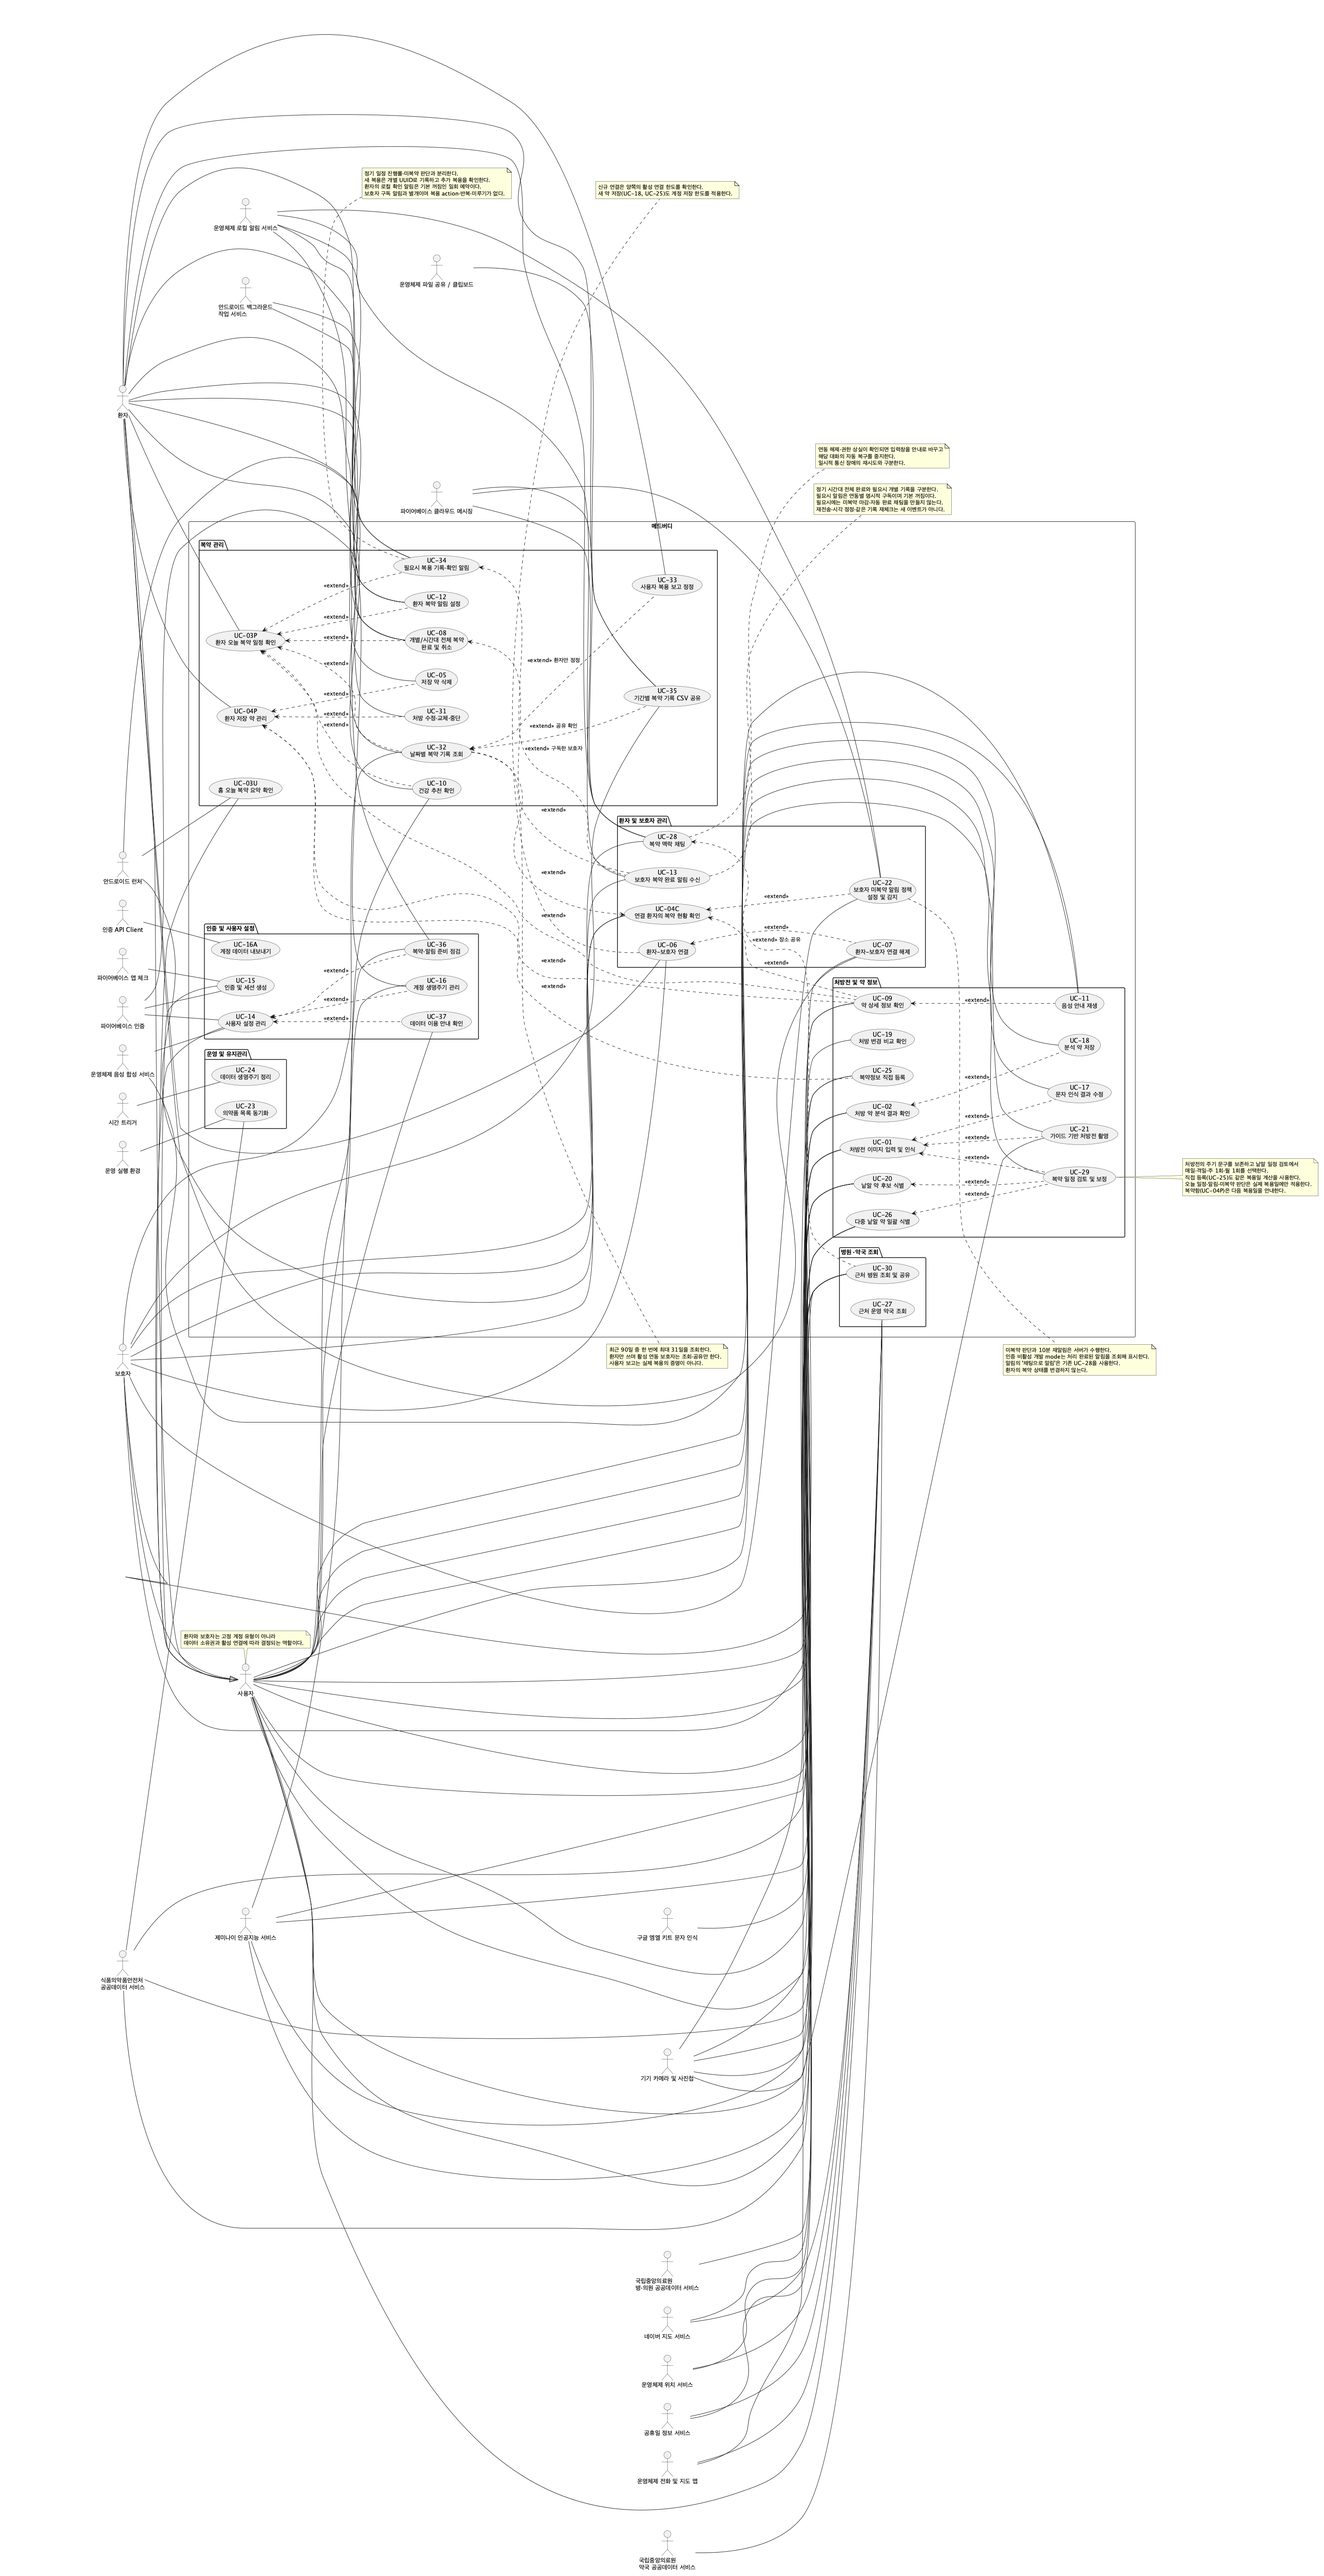
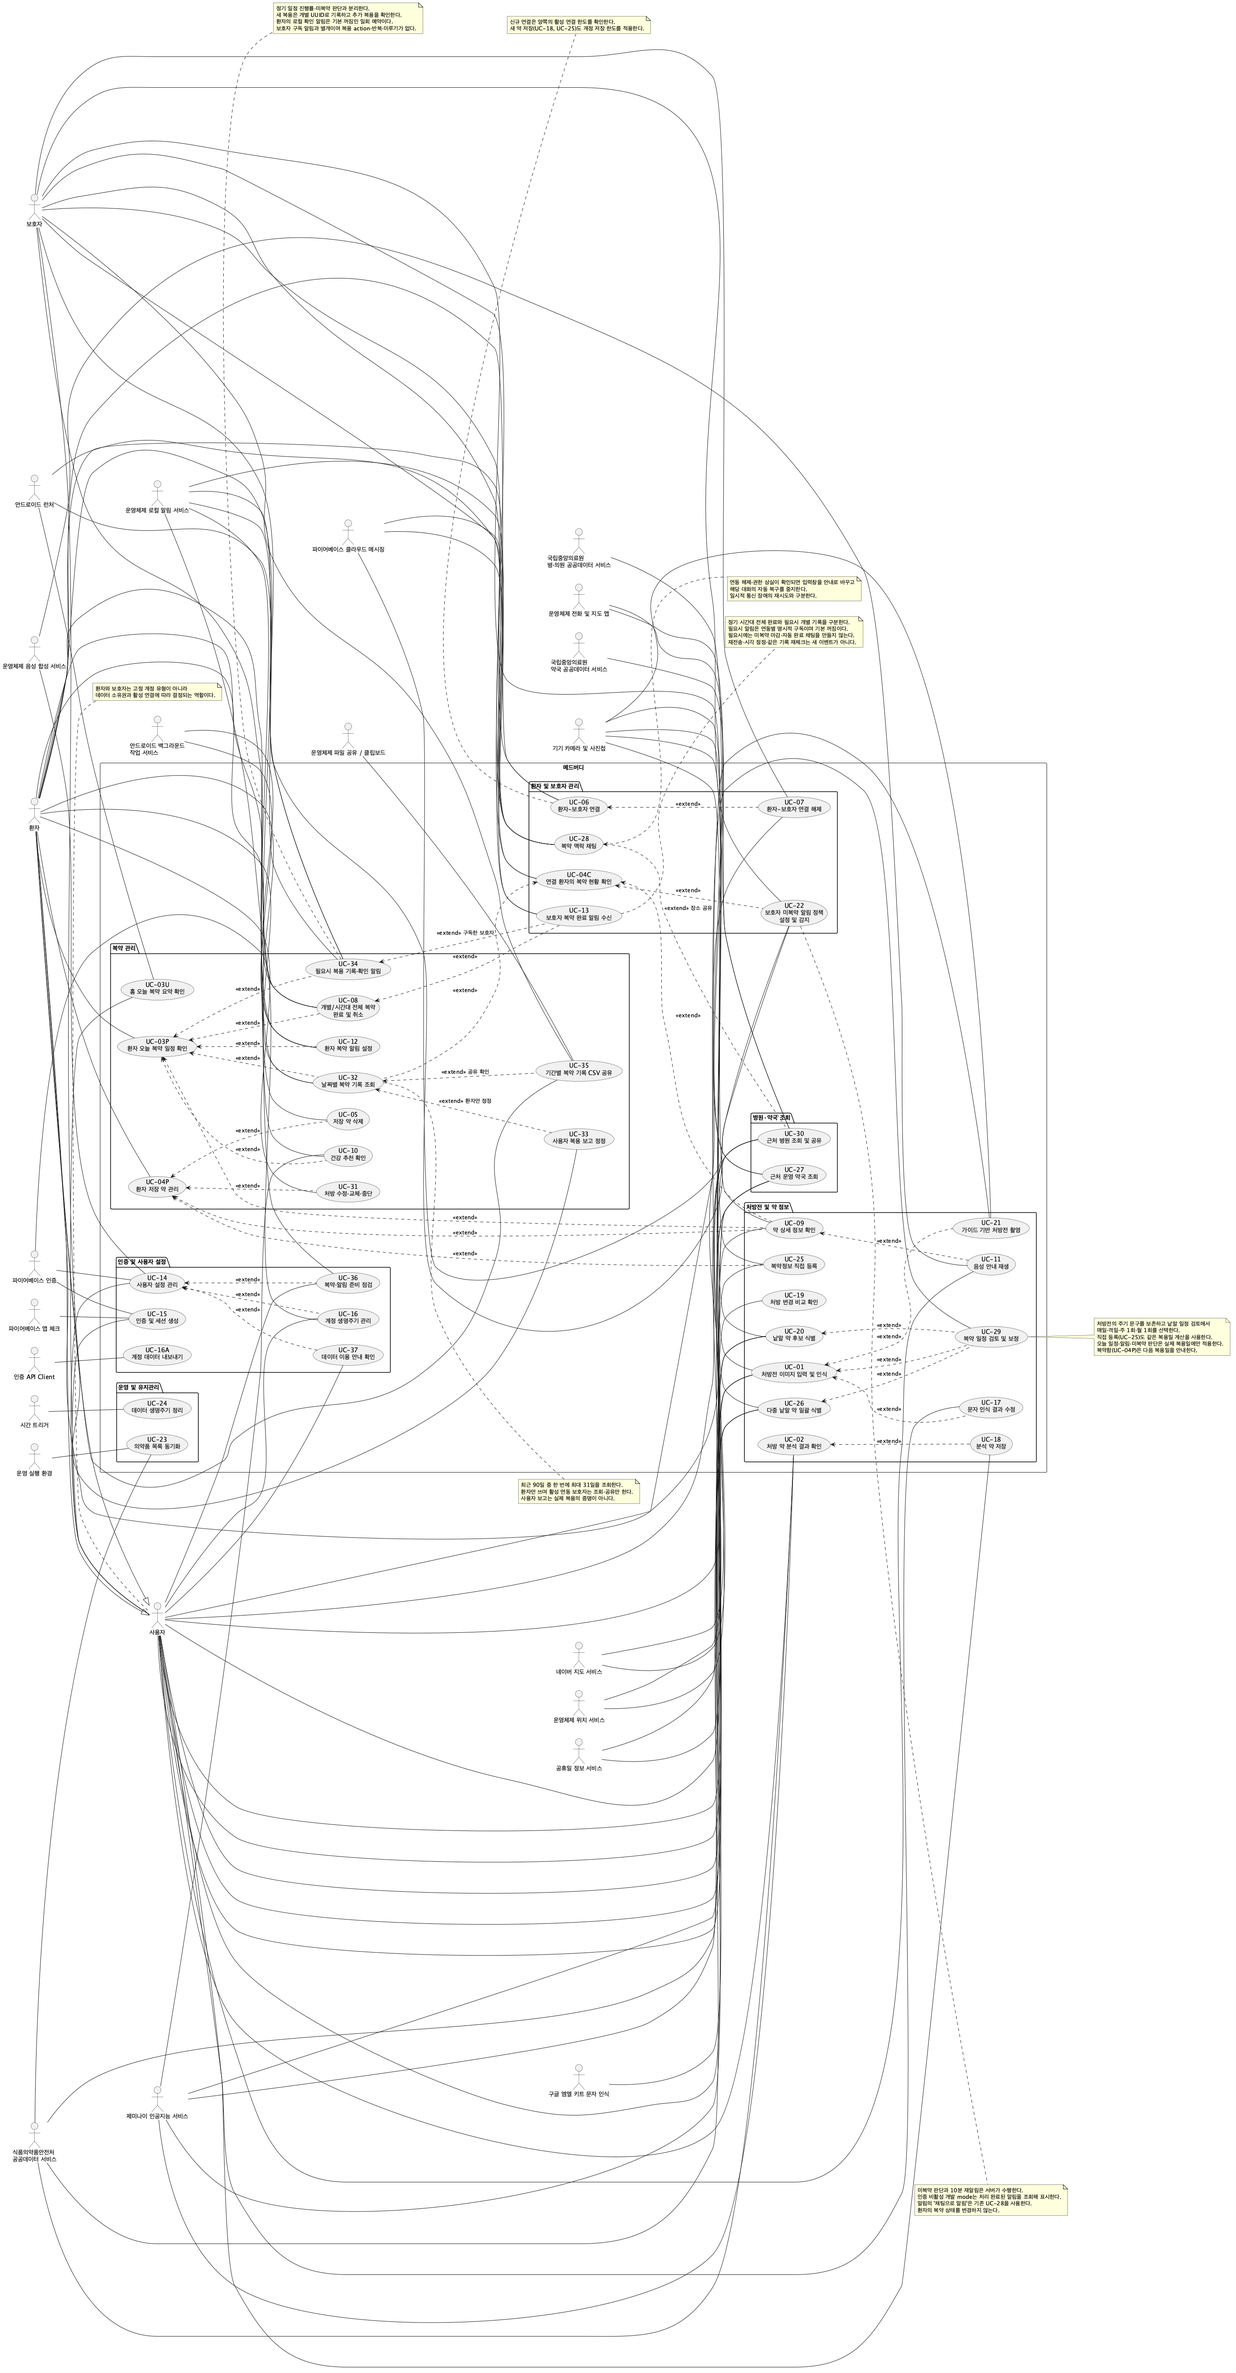
docs: bring use cases and the user guide text up to the current app
Use cases: the caregiver is linked to UC-34, whose description gains the
undo step; the descriptions use the current labels (연동된 환자 일정 보기,
복용 완료 취소 with its confirmation) and state the 30-minute threshold of
the home recording notice, the delete warning about dose records and the
caregiver deadline wait. The use case and overall sequence PNGs are
rendered again.

User guide text: 처방 변경 badges, the delete warning, 연동된 환자, the home
prompt, the schedule screen's whole-slot undo confirmation, the 30-minute
threshold and the as-needed undo. The PDF and screenshots still need a
rebuild; SOURCE_NOTES lists what changed.

The TODO marks the as-needed scheduling and late weekly dose limits as
resolved by v0.2.3, and the backend's OpenAPI version reads 0.2.4-beta.

diff --git a/backend/main.py b/backend/main.py
@@ -313,7 +313,7 @@ def create_app() -> FastAPI:
     prepare_database_schema(engine, auto_create=settings.AUTO_CREATE_SCHEMA)
     app = FastAPI(
         title="MedBuddy API",
-        version="0.1.0-beta",
+        version="0.2.4-beta",
         lifespan=application_lifespan,
         docs_url=None if settings.APP_ENV == "production" else "/docs",
         redoc_url=None if settings.APP_ENV == "production" else "/redoc",

diff --git a/docs/TODO.md b/docs/TODO.md
@@ -14,8 +14,10 @@ line below. Changes are listed in the [v0.2.4 notes](releases/v0.2.4-beta.md).
       leaned to "not needed").
 - [ ] A calendar for checking past days' doses.
 - [ ] Dose record export.
-- [ ] The launcher icon is enlarged and cropped by the Samsung launcher (the
-      wordmark is cut at both edges); shrink it.
+- [x] The launcher icon is enlarged and cropped by the Samsung launcher (the
+      wordmark is cut at both edges); shrink it. Now an adaptive icon with the
+      mark only (the user agreed to drop the wordmark), plus a transparent
+      status-bar icon for reminders and pushes. Check on the Galaxy Note10.
 - [ ] UML: bring the diagrams from 0.2.2 and part of 0.2.3 up to date.
 - [ ] User guide, poster, and feedback gathered until the deadline.
 
@@ -354,11 +356,14 @@ closed by any code on this branch:
       Manual registration offered no rhythm at all until October 12, so a
       weekly medication entered by hand was scheduled every day; found while
       using the signed build on the phone.
-- [ ] "As needed" directions are scheduled like daily ones, on the slots the
-      user confirmed.
-- [ ] A dose of a medication that is not taken every day can be recorded
+- [x] "As needed" directions are scheduled like daily ones, on the slots the
+      user confirmed. Resolved in v0.2.3: an as-needed medicine leaves the fixed
+      schedule and its doses are recorded from the schedule's as-needed card.
+- [x] A dose of a medication that is not taken every day can be recorded
       only on its dose day; the day after, it is no longer on the schedule, so
-      a weekly dose taken a day late cannot be recorded. The medication box
+      a weekly dose taken a day late cannot be recorded. Since v0.2.3 it can be
+      recorded in the dose history on its dose day with the actual time of the
+      next day (the scheduled date is kept). The medication box
       shows the next dose day of such a medication, so that its absence from
       today's schedule is explained.
 - [ ] A weekly prescription often prints the number of doses as its total

diff --git a/docs/user-guide/SOURCE_NOTES.md b/docs/user-guide/SOURCE_NOTES.md
@@ -90,3 +90,15 @@ NanumBarunGothic·NanumBarunGothicBold 글꼴과 번들 Python의 reportlab·pyp
[3 lines of base64/hex data omitted]
+
+## 2026-10-21 본문 수정 (`beta/v0.2.4`)
+
+README 본문만 현재 앱에 맞췄으며 PDF와 사진은 아직 다시 만들지 않았습니다. PDF를 다시
+만들 때 아래 항목과 10월 19일 이후 바뀐 홈 화면(바로가기 아래 ‘연동된 환자 일정 보기’)
+사진을 함께 반영해야 합니다.
+
+- 상태 배지: ‘처방 교체’ → ‘처방 변경’, ‘중단·교체 예정’ → ‘복용 중단 예정·처방 변경 예정’(7.3, 7.10).
+- 약 삭제 확인: 복용 기록도 함께 삭제된다는 안내와 ‘처방에 따른 복용 중단’ 안내, 취소가 왼쪽(7.6, 7.12).
+- ‘연결된 환자’ → ‘연동된 환자’, ‘환자 연결’ → ‘환자 연동’(5.x 위젯, 9.5, 9.14).
+- 홈의 ‘연동된 환자 일정 보기’ 안내(1.6), 일정 화면의 시간대 전체 취소 확인(3.4), 홈 기록 뒤 주의 문구의 30분 기준(3.2).
+- 필요시 복용: 저장 알림의 실행 취소와 기록 수정의 ‘기록 취소(잘못 기록함)’, 복용 순서 표시(3.9).

diff --git a/docs/releases/v0.2.4-beta.md b/docs/releases/v0.2.4-beta.md
@@ -58,6 +58,21 @@ release (Google Play distribution, App Check enforcement) are out of scope.
   brand colour. Android draws that icon from its transparency, so the opaque
   launcher icon would show as a plain white square.
 
+### Documents
+
+- Use cases: the caregiver is linked to UC-34 (as-needed doses), whose
+  description now has the undo step; the descriptions say "연동된 환자 일정
+  보기", "복용 완료 취소" with its confirmation, the 30-minute threshold of the
+  home recording notice, the delete warning about dose records (UC-05) and
+  the caregiver deadline wait (UC-22). The use case and overall sequence
+  PNGs are rendered again.
+- User guide text: "처방 변경" badges, the delete warning, "연동된 환자", the
+  home prompt, the whole-slot undo confirmation on the schedule screen, the
+  30-minute threshold and the as-needed undo. The PDF and screenshots still
+  need a rebuild on the machine that holds their source; SOURCE_NOTES lists
+  the changes.
+- The backend's OpenAPI version reads 0.2.4-beta instead of 0.1.0-beta.
+
 ## Open
 
 Open decisions and unverified device checks are listed in

diff --git a/README.md b/README.md
@@ -10,7 +10,7 @@
 
 - [Read the Korean user guide on GitHub](docs/user-guide/README.md).
 - [Open the illustrated Korean PDF guide](docs/user-guide/MedBuddy_User_Guide_ko.pdf).
-- The guide covers the v0.2.3 beta interface; [capture and version notes](docs/user-guide/SOURCE_NOTES.md) distinguish refreshed screens from unchanged earlier captures.
+- The guide covers the v0.2.3 beta interface; its text was brought up to the v0.2.4 line on 2026-10-21 while the PDF and screenshots still await a rebuild. [Capture and version notes](docs/user-guide/SOURCE_NOTES.md) list what changed.
 
 ## Key Features
 
